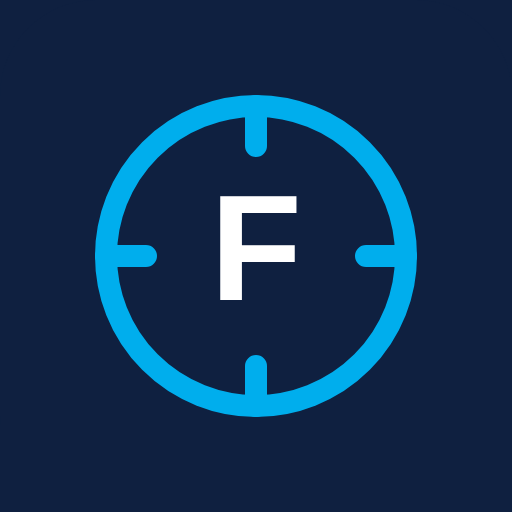
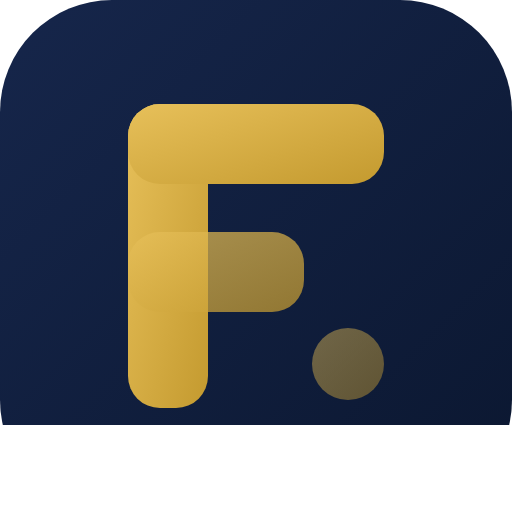
Brand the app as Foreman; keep CMS CI for report output only
The app is Jacques' own tool, not a CMS product. CMS branding belongs on the
things handed to the dealer principal and the CMS team, not on the chrome of
the tool itself.

New Foreman mark: a geometric F whose arms read as cards stacked on a job
board, with one job still waiting at the bottom right — navy and gold, which
was already the app's palette and is distinct from CMS eco's blue and
turquoise. Three assets: foreman-mark.svg (transparent, for dark chrome),
foreman-icon.svg (the navy badge, for app icons and favicon) and
foreman-logo.svg (mark plus wordmark, for light backgrounds). PWA icons
regenerated from it — the "any" sizes now have transparent corners, the
maskable one keeps its navy bleed for launchers that crop.

Rebranded: console, board and review headers; the chat speaker label (was
"CMS Agent"); the PWA manifest; the server startup line; the escalation
packet by-line; the system prompt's opening sentence; and the extension,
which is now the Foreman Recorder.

Unchanged on purpose: server/src/reports/shared.ts still embeds the CMS eco
logo and the CMS CI palette, because workshop dashboards and campaign lists
are produced for CMS. Only the report by-line changes, to "Generated by
Foreman · CMS Systems", so it is clear which tool made it.

Verified: 39 tests pass; the mark, icon and lockup all serve; a freshly built
workshop report still carries the embedded CMS logo and the CMS footer.

Claude-Session: https://claude.ai/code/session_01Djt2XJRTPDgZuoLHpRdhFL

diff --git a/cms-agent/web/index.html b/cms-agent/web/index.html
@@ -7,6 +7,7 @@
 <link rel="manifest" href="/manifest.webmanifest">
 <meta name="theme-color" content="#0F2040">
 <link rel="apple-touch-icon" href="/assets/icon-192.png">
+<link rel="icon" href="/assets/foreman-icon.svg" type="image/svg+xml">
 <meta name="apple-mobile-web-app-capable" content="yes">
 <meta name="mobile-web-app-capable" content="yes">
 <style>
@@ -120,8 +121,8 @@ button{font:inherit;color:inherit;cursor:pointer}input,select,textarea{font:inhe
 </head>
 <body>
 <div class="bar">
-  <img src="/assets/cms-eco-logo-white.png" alt="CMS eco" style="height:30px">
-  <div><b>Foreman</b><span>CMS Agent · support · reports · problem solving · recorder</span></div>
+  <img src="/assets/foreman-mark.svg" alt="Foreman" style="height:30px">
+  <div><b>Foreman</b><span>Ask · automate · report</span></div>
   <div class="sp"></div>
   <label class="hint" style="color:rgba(255,255,255,.7)">Dealer <input id="dealer" placeholder="e.g. UPN01" style="width:110px"></label>
   <a href="/board.html" id="boardLink" class="btn" style="background:rgba(255,255,255,.08);border-color:rgba(255,255,255,.2);color:#fff;text-decoration:none">Board</a>
@@ -230,7 +231,7 @@ function md(s) {
 }
 function add(role, text, imgs = []) {
   const d = document.createElement("div"); d.className = "m " + role;
-  d.innerHTML = `<div class="who">${role === "user" ? "You" : "CMS Agent"}</div>` + imgs.map((i) => `<img src="data:${i.mediaType};base64,${i.data}">`).join("") + (role === "user" ? esc(text) : md(text));
+  d.innerHTML = `<div class="who">${role === "user" ? "You" : "Foreman"}</div>` + imgs.map((i) => `<img src="data:${i.mediaType};base64,${i.data}">`).join("") + (role === "user" ? esc(text) : md(text));
   $("#msgs").appendChild(d); $("#msgs").scrollTop = $("#msgs").scrollHeight; return d;
 }
 
@@ -586,7 +587,7 @@ watchRuns();
   es.onerror = () => { es.close(); setTimeout(watchAgents, 8000); };
 })();
 
-(async () => { try { const h = await api("/health"); if (!h.hasApiKey) add("agent", "Note: no Claude API credentials are configured on the server. Recordings, SOPs and playbooks work; chat needs ANTHROPIC_API_KEY or an `ant auth login` profile."); } catch {} loadSide(); })();
+(async () => { try { const h = await api("/health"); if (!h.hasApiKey) add("agent", "Note: no Claude API credentials are configured on the server. Recordings, SOPs, tasks and playbooks work; chat needs ANTHROPIC_API_KEY or an `ant auth login` profile."); } catch {} loadSide(); })();
 </script>
 </body>
 </html>

diff --git a/cms-agent/web/review.html b/cms-agent/web/review.html
@@ -1,5 +1,6 @@
 <!doctype html>
 <html lang="en"><head><meta charset="utf-8"><meta name="viewport" content="width=device-width,initial-scale=1"><title>Foreman · Playbook review</title>
+<link rel="icon" href="/assets/foreman-icon.svg" type="image/svg+xml">
 <link rel="manifest" href="/manifest.webmanifest">
 <style>
 :root{--ink:#0F2040;--blue:#31459C;--turq:#00AEED;--paper:#F7F5F1;--surface:#fff;--line:#E5E0D8;--t1:#16203A;--t2:#4E5468;--t3:#7C7A78;--go:#1A6B3A;--go-bg:#E9F3EC;--stop:#8B1A1A;--stop-bg:#F8EAEA;--wait:#8A6100;--wait-bg:#FBF1DC}
@@ -17,7 +18,7 @@ label{display:block;font-size:11px;color:var(--t2);margin:8px 0 3px}input,textar
 table{width:100%;border-collapse:collapse;font-size:13px}td,th{padding:6px 8px;border-bottom:1px solid var(--line);text-align:left}th{color:var(--t3);font-size:11px;letter-spacing:.08em;text-transform:uppercase}
 </style></head>
 <body>
-<div class="bar"><img src="/assets/cms-eco-logo-white.png" alt="CMS eco" style="height:28px"><div><b>Playbook review</b><span>Foreman · weekly learning loop</span></div><a href="/">← Back to Foreman</a></div>
+<div class="bar"><img src="/assets/foreman-mark.svg" alt="Foreman" style="height:28px"><div><b>Playbook review</b><span>Weekly learning loop</span></div><a href="/">← Back to Foreman</a></div>
 <main>
   <div class="card"><b>How this works.</b> Every case resolved with a written resolution becomes a <i>learned playbook</i> with a low weight. Review them here once a week: tidy the title, symptoms and steps, then <b>Promote</b> the good ones into the permanent list (higher weight, survives restarts, editable below) or <b>Archive</b> the noise. Promoted playbooks live in <code>server/knowledge/playbooks.custom.json</code>.</div>
   <h2>Learned playbooks awaiting review</h2><div id="learned"><div class="empty">Loading…</div></div>

diff --git a/cms-agent/web/board.html b/cms-agent/web/board.html
@@ -1,5 +1,6 @@
 <!doctype html>
 <html lang="en"><head><meta charset="utf-8"><meta name="viewport" content="width=device-width,initial-scale=1,viewport-fit=cover"><title>Foreman · Board</title>
+<link rel="icon" href="/assets/foreman-icon.svg" type="image/svg+xml">
 <link rel="manifest" href="/manifest.webmanifest"><meta name="theme-color" content="#0F2040">
 <style>
 :root{--ink:#0F2040;--gold:#C49A2F;--paper:#F7F5F1;--surface:#fff;--surface2:#FBFAF7;--line:#E5E0D8;--t1:#16203A;--t2:#4E5468;--t3:#7C7A78;--go:#1A6B3A;--go-bg:#E9F3EC;--wait:#8A6100;--wait-bg:#FBF1DC;--stop:#8B1A1A;--stop-bg:#F8EAEA;--r:10px}
@@ -41,7 +42,7 @@ button,input,select,textarea{font:inherit;color:inherit}
 .toast{position:fixed;left:50%;bottom:calc(20px + env(safe-area-inset-bottom));transform:translateX(-50%);background:var(--ink);color:#fff;padding:10px 16px;border-radius:999px;font-size:13px;z-index:70;box-shadow:0 8px 24px -8px rgba(0,0,0,.5)}
 </style></head>
 <body>
-<div class="bar"><img src="/assets/cms-eco-logo-white.png" alt="" style="height:24px"><b>Board</b><a href="/">← Foreman</a></div>
+<div class="bar"><img src="/assets/foreman-mark.svg" alt="Foreman" style="height:24px"><b>Board</b><a href="/">← Foreman</a></div>
 
 <div class="section"><h2>Agents <button class="btn small" id="newAgent">+ New agent</button></h2>
   <div class="hint" style="margin-bottom:8px">An agent is a named worker with a job description and the tasks it owns. Run it, or put it on a schedule, and it reports back here and in chat when it is done.</div>

diff --git a/cms-agent/server/src/agent/prompts.ts b/cms-agent/server/src/agent/prompts.ts
@@ -5,7 +5,7 @@ import type { AgentMode } from "../config.js";
  * request. Anything that changes per request (dealer, mode, date) goes into
  * the dynamic block appended after it.
  */
-export const SYSTEM_PROMPT = `You are Foreman, the CMS Agent: the workshop support, reporting and problem-solving assistant for CMS Systems, a workshop booking and execution platform used by franchised automotive dealerships in South Africa.
+export const SYSTEM_PROMPT = `You are Foreman, a workshop support, reporting and automation agent built by Jacques Robilliard. You work on CMS Systems, a workshop booking and execution platform used by franchised automotive dealerships in South Africa.
 
 You help product specialists, service advisors, technicians, parts staff and workshop managers with:
 - the CMS Workshop Module: booking wizard, dispatch board, eVHC (electronic vehicle health check), OEM quoting, parts catalogue (Microcat EPC with supersession chains), customer authorisation via OTP and e-signature, invoicing

diff --git a/cms-agent/web/sw.js b/cms-agent/web/sw.js
@@ -1,7 +1,7 @@
 // Foreman service worker: cache the app shell so the console opens instantly and
 // still loads when the phone briefly loses Wi-Fi. API calls always go to the network.
-const CACHE = "foreman-shell-v2";
-const SHELL = ["/", "/index.html", "/review.html", "/board.html", "/manifest.webmanifest", "/assets/cms-eco-logo-white.png", "/assets/icon-192.png", "/assets/icon-512.png"];
+const CACHE = "foreman-shell-v3";
+const SHELL = ["/", "/index.html", "/review.html", "/board.html", "/manifest.webmanifest", "/assets/foreman-mark.svg", "/assets/foreman-icon.svg", "/assets/icon-192.png", "/assets/icon-512.png"];
 self.addEventListener("install", (e) => { e.waitUntil(caches.open(CACHE).then((c) => c.addAll(SHELL)).then(() => self.skipWaiting())); });
 self.addEventListener("activate", (e) => { e.waitUntil(caches.keys().then((keys) => Promise.all(keys.filter((k) => k !== CACHE).map((k) => caches.delete(k)))).then(() => self.clients.claim())); });
 self.addEventListener("fetch", (e) => {

diff --git a/cms-agent/server/src/reports/shared.ts b/cms-agent/server/src/reports/shared.ts
@@ -124,7 +124,7 @@ ${extraCss}
 </style></head><body>
 <header>${logo ? `<img src="${logo}" alt="CMS eco">` : `<b style="color:var(--blue);font-size:22px">CMS eco</b>`}<div><h1>${esc(title)}</h1><p>${esc(subtitle)}</p></div></header>
 <main>${body}</main>
-<footer>Generated by Foreman (CMS Agent) · ${new Date().toLocaleString("en-ZA")} · CMS Systems</footer>
+<footer>Generated by Foreman · ${new Date().toLocaleString("en-ZA")} · CMS Systems</footer>
 <script>
 document.querySelectorAll("table[data-sort]").forEach(t=>{t.querySelectorAll("th").forEach((th,i)=>th.onclick=()=>{const tb=t.tBodies[0];const rows=[...tb.rows];const asc=th.dataset.asc!=="1";th.dataset.asc=asc?"1":"0";
 rows.sort((a,b)=>{const x=a.cells[i].dataset.v??a.cells[i].textContent,y=b.cells[i].dataset.v??b.cells[i].textContent;const nx=parseFloat(x),ny=parseFloat(y);const c=(!isNaN(nx)&&!isNaN(ny))?nx-ny:String(x).localeCompare(String(y));return asc?c:-c});rows.forEach(r=>tb.appendChild(r))}))});

diff --git a/cms-agent/server/src/agent/ticketing.ts b/cms-agent/server/src/agent/ticketing.ts
@@ -75,7 +75,7 @@ export function buildPacket(c: CaseRow, opts: { to?: string; baseUrl?: string; i
     facts.length ? `## Known dealer facts\n${facts.map((f) => `- ${f}`).join("\n")}\n` : "",
     `## Timeline\n${timeline.map((t) => `- ${t.at}: ${t.note}`).join("\n")}`, "",
     `## Still needed from the dealer\n${include.map((i) => `- [ ] ${i}`).join("\n")}`, "",
-    `_Prepared by Foreman (CMS Agent) ${new Date().toISOString()}_`,
+    `_Prepared by Foreman ${new Date().toISOString()}_`,
   ].filter((l) => l !== "").join("\n");
 
   return { caseId: c.id, title: c.title, dealer: c.dealer ?? "—", to, summary, symptom: c.symptom, hypothesis: c.hypothesis ?? undefined, tried, evidence, recording, dealerFacts: facts, timeline, include, markdown: md, generatedAt: new Date().toISOString() };

diff --git a/cms-agent/recorder-extension/popup.html b/cms-agent/recorder-extension/popup.html
@@ -1,5 +1,5 @@
 <!doctype html>
-<html><head><meta charset="utf-8"><title>CMS Workflow Recorder</title>
+<html><head><meta charset="utf-8"><title>Foreman Recorder</title>
 <style>
   body{font:13px system-ui,Segoe UI,sans-serif;margin:0;width:320px;color:#16203A;background:#F7F5F1}
   header{background:#0F2040;color:#fff;padding:10px 12px;font-weight:600;display:flex;align-items:center;gap:8px}
@@ -12,7 +12,7 @@
   details{margin-top:10px;font-size:12px}summary{cursor:pointer;color:#4E5468}
 </style></head>
 <body>
-<header><span class="dot" id="dot"></span> CMS Workflow Recorder</header>
+<header><span class="dot" id="dot"></span> Foreman Recorder</header>
 <main>
   <div id="setup">
     <label>Workflow title</label><input id="title" placeholder="e.g. Create a booking with OEM menu">

diff --git a/cms-agent/server/src/index.ts b/cms-agent/server/src/index.ts
@@ -48,7 +48,7 @@ startScheduler(listTasks);
 setInterval(() => { try { tickAgents(); } catch (err) { console.error("agent tick failed:", (err as Error).message); } }, 30_000).unref();
 
 app.listen(config.port, () => {
-  console.log(`Foreman (CMS Agent) listening on http://localhost:${config.port}  (model ${config.model})`);
+  console.log(`Foreman listening on http://localhost:${config.port}  (model ${config.model})`);
   if (!process.env.ANTHROPIC_API_KEY && !process.env.ANTHROPIC_AUTH_TOKEN) {
     console.log("No ANTHROPIC_API_KEY set: the SDK will look for an `ant auth login` profile. Chat will fail without credentials; recordings, SOPs and /api/diagnose still work.");
   }

diff --git a/cms-agent/server/src/agent/tools.ts b/cms-agent/server/src/agent/tools.ts
@@ -112,7 +112,7 @@ export const TOOLS: AgentTool[] = [
   tool(
     {
       name: "list_recordings",
-      description: "List workflow recordings captured with the CMS Workflow Recorder (SOP captures and problem captures), newest first.",
+      description: "List workflow recordings captured with the Foreman Recorder extension (SOP captures and problem captures), newest first.",
       input_schema: {
         type: "object",
         properties: {

diff --git a/cms-agent/recorder-extension/content.js b/cms-agent/recorder-extension/content.js
@@ -1,4 +1,4 @@
-// CMS Workflow Recorder — content script.
+// Foreman Recorder — content script.
 // Captures user actions and page signals and forwards them to the background
 // service worker. Nothing is stored here; the background owns the recording.
 (() => {

diff --git a/cms-agent/recorder-extension/background.js b/cms-agent/recorder-extension/background.js
@@ -1,4 +1,4 @@
-// CMS Workflow Recorder — background service worker. Owns the recording.
+// Foreman Recorder — background service worker. Owns the recording.
 const state = { active: false, t0: 0, rec: null, lastShot: 0, tabId: null };
 
 async function load() {
